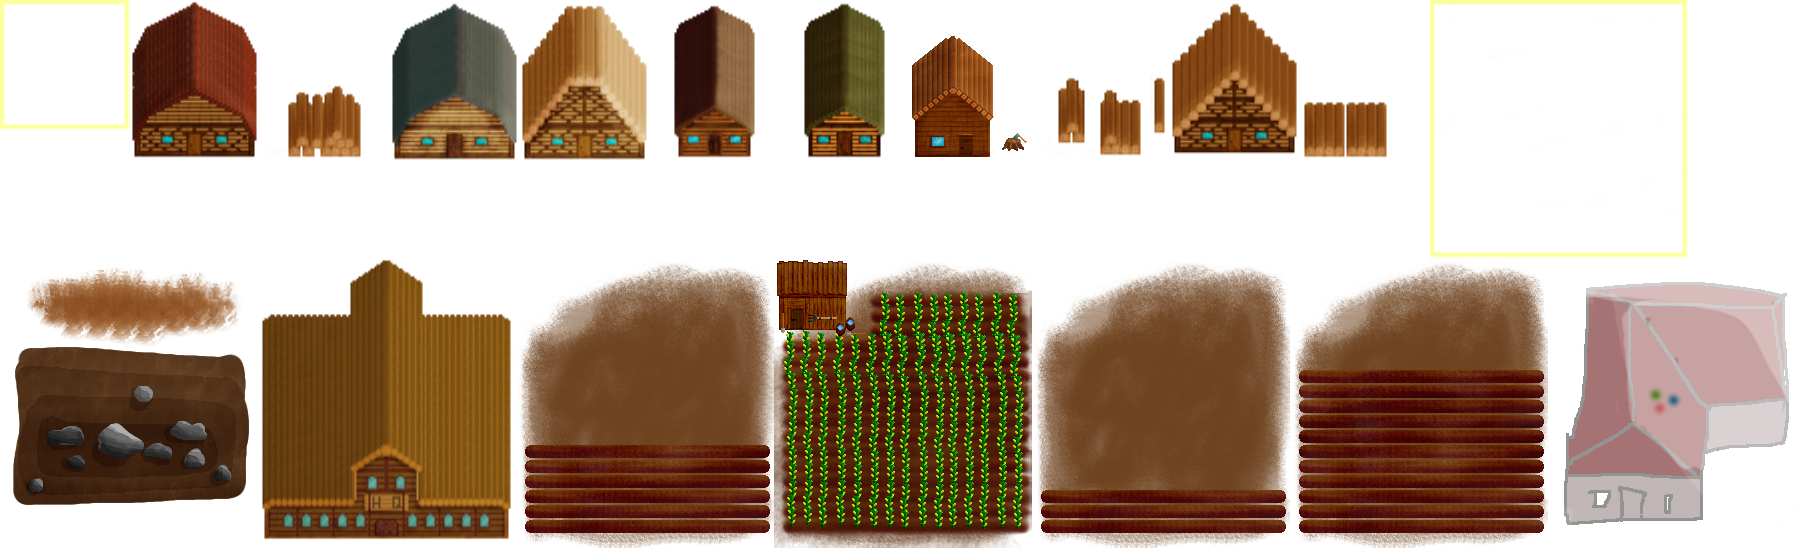
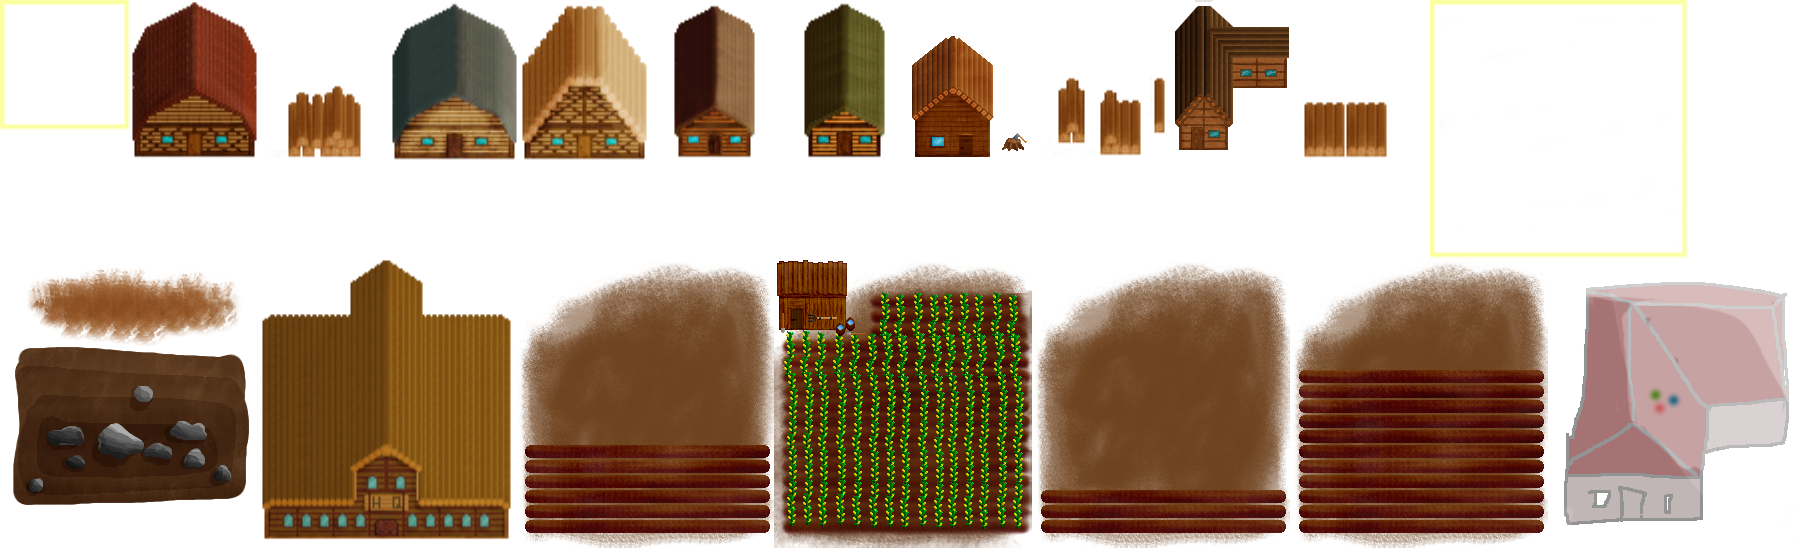
Cleaned up, tried higher resolution for one building

Changed region(s): [[0.6504, 0.0, 0.7434, 0.2792]]

diff --git a/crown/SpriteSheets/buildingAtlas.cs b/crown/SpriteSheets/buildingAtlas.cs
@@ -4,7 +4,7 @@
  * Contains references to each image within the sprite sheet.
  *
  * http://www.codeandweb.com/texturepacker
- * $TexturePacker:SmartUpdate:5c24a675f753d62c211dcdc4efca2a5b:7b5ea654f1d99dbb54d66b72e7ab48fe:905072b72ea92acf8fa5b0216a681f3c$
+ * $TexturePacker:SmartUpdate:f4a91360ebaca20cea77a9d214e43ebf:0917f2834b21e7abbe96a355e1c366a7:905072b72ea92acf8fa5b0216a681f3c$
  *
  */
 namespace TexturePackerMonoGameDefinitions

diff --git a/crown/Buildings/Townhall.cs b/crown/Buildings/Townhall.cs
@@ -26,8 +26,6 @@ namespace crown.Buildings {
             mechanics.FoodStorage = 500;
             mechanics.Wood = 200;
             mechanics.Food = 200;
-
-            mechanics.Workers = 1000;
         }
 
         public override void UpdateSprite() {
